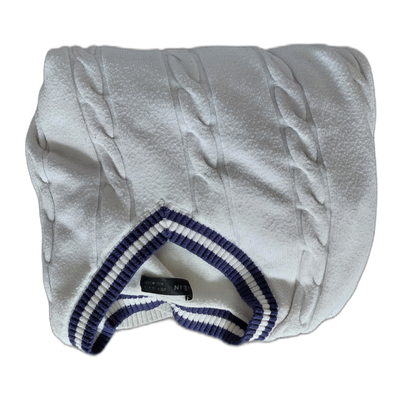
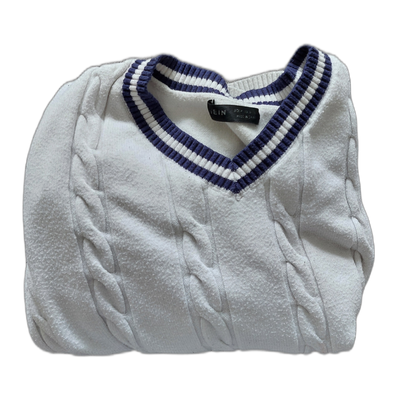
fix: correction orientation top_17, pull_03, pull_06 + cache sw v6
Revue complète de tous les tops (37), pulls (27) et robes (6).
3 vêtements identifiés à l'envers et corrigés (rotation 180°) :
- top_17 : col roulé noir (col en bas → en haut)
- pull_03 : pull col V blanc cable-knit (col marine en bas → en haut)
- pull_06 : pull gris chiné (encolure en bas → en haut)
Cache SW bumped v5 → v6 pour forcer la mise à jour sur les appareils.

diff --git a/sw.js b/sw.js
@@ -1,4 +1,4 @@
-const CACHE_NAME = 'lutin-meteo-v5';
+const CACHE_NAME = 'lutin-meteo-v6';
 const ASSETS = [
   './',
   './index.html',
